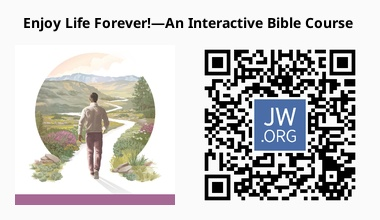
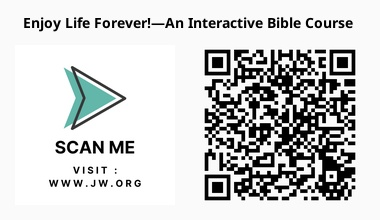
Removed copyright images

Changed region(s): [[0.0579, 0.2182, 0.4342, 0.8455], [0.6658, 0.4364, 0.8105, 0.7091], [0.0289, 0.8727, 0.4632, 0.9545]]

diff --git a/index.py b/index.py
@@ -132,7 +132,7 @@ def qr_processor(
     return eval(f"gen_qr_{article_design}")(article_link, article_title)
 
 
-def gen_qr(article_link="", article_title="", with_logo=True, design=None):
+def gen_qr(article_link="", article_title="", design=None):
     if not article_link:
         return
 
@@ -150,9 +150,20 @@ def gen_qr(article_link="", article_title="", with_logo=True, design=None):
             404,
             description=f"Opps!! Something is wrong somewhere. Please try another link.",
         )
-    left_image = get_article_image(image_url=links.get("image", ""))
+    
+    logoName = "assets/images/logo-1.png"
+    if design == 1:
+        logoName = "assets/images/logo-2.png"
+    elif design == 2:
+        logoName = "assets/images/logo-3.png"
+
+    logo = Image.open(logoName)
+    left_image = logo.resize(ARTICLE_IMAGE_SIZE, Image.ANTIALIAS)
+    left_image = add_margin(
+        left_image, top=0, bottom=15, left=15, right=15, color=(250, 250, 250)
+    )
     right_image = get_qr_image(
-        article_link=article_link, with_logo=with_logo, design=design
+        article_link=article_link, with_logo=False
     )
     article_size = left_image.size
     complete_qr_image = Image.new(
@@ -180,133 +191,138 @@ def gen_qr(article_link="", article_title="", with_logo=True, design=None):
 def gen_qr_1(article_link="", article_title=""):
     return gen_qr(article_link=article_link, article_title=article_title)
 
+def gen_qr_2(article_link="", article_title=""):
+    return gen_qr(
+        article_link=article_link,
+        article_title=article_title,
+        design=1,
+    )
 
 def gen_qr_3(article_link="", article_title=""):
     return gen_qr(
         article_link=article_link,
         article_title=article_title,
-        with_logo=False,
-        design=1,
+        design=2,
     )
 
 
-def gen_qr_2(article_link="", article_title=""):
-    if not article_link:
-        return
+# def gen_qr_2(article_link="", article_title=""):
+#     if not article_link:
+#         return
 
-    result = urlparse(article_link)
-    domain_link = result.netloc.casefold()
-    if domain_link != EXPECTED_DOMAIN:
-        logger.warn("Invalid domain.")
-        abort(404, "Please enter a link from {EXPECTED_DOMAIN}.")
-    links = {}
-    try:
-        links = scrape_article(article_link=article_link)
-    except Exception as er:
-        logger.error("Error during scraping.", exc_info=True)
-        abort(
-            404,
-            description=f"Opps!! Something is wrong somewhere. Please try another link.",
-        )
-    left_image = get_article_image(
-        image_url=links.get("image", ""), article_url=article_link
-    )
-    logo = Image.open("assets/images/siteLogo-jworg.png")
-    right_image = logo.resize(ARTICLE_IMAGE_SIZE, Image.ANTIALIAS)
-    article_size = left_image.size
-    complete_qr_image = Image.new(
-        "RGB", (2 * article_size[0], article_size[1] + IMAGE_OFFSET), (250, 250, 250)
-    )
-    complete_qr_image.paste(left_image, (0, IMAGE_OFFSET))
-    complete_qr_image.paste(right_image, (article_size[0] + 10, IMAGE_OFFSET))
+#     result = urlparse(article_link)
+#     domain_link = result.netloc.casefold()
+#     if domain_link != EXPECTED_DOMAIN:
+#         logger.warn("Invalid domain.")
+#         abort(404, "Please enter a link from {EXPECTED_DOMAIN}.")
+#     links = {}
+#     try:
+#         links = scrape_article(article_link=article_link)
+#     except Exception as er:
+#         logger.error("Error during scraping.", exc_info=True)
+#         abort(
+#             404,
+#             description=f"Opps!! Something is wrong somewhere. Please try another link.",
+#         )
+#     left_image = get_article_image(
+#         image_url=links.get("image", ""), article_url=article_link
+#     )
+#     logo = Image.open("assets/images/siteLogo-jworg.png")
+#     right_image = logo.resize(ARTICLE_IMAGE_SIZE, Image.ANTIALIAS)
+#     article_size = left_image.size
+#     complete_qr_image = Image.new(
+#         "RGB", (2 * article_size[0], article_size[1] + IMAGE_OFFSET), (250, 250, 250)
+#     )
+#     complete_qr_image.paste(left_image, (0, IMAGE_OFFSET))
+#     complete_qr_image.paste(right_image, (article_size[0] + 10, IMAGE_OFFSET))
 
-    qr_title = article_title if article_title else links.get("title", "")
+#     qr_title = article_title if article_title else links.get("title", "")
 
-    draw_title(
-        image=complete_qr_image,
-        width=article_size[0],
-        title=qr_title,
-        lang=links.get("lang", "en"),
-    )
-    complete_qr_image = draw_border(image=complete_qr_image)
-    qr_file = io.BytesIO()
-    complete_qr_image.save(qr_file, "JPEG", quality=95)
-    qr_file.seek(0)
-    return qr_file
+#     draw_title(
+#         image=complete_qr_image,
+#         width=article_size[0],
+#         title=qr_title,
+#         lang=links.get("lang", "en"),
+#     )
+#     complete_qr_image = draw_border(image=complete_qr_image)
+#     qr_file = io.BytesIO()
+#     complete_qr_image.save(qr_file, "JPEG", quality=95)
+#     qr_file.seek(0)
+#     return qr_file
 
 
-def gen_qr_4(article_link="", article_title=""):
-    if not article_link:
-        return
+# def gen_qr_4(article_link="", article_title=""):
+#     if not article_link:
+#         return
 
-    result = urlparse(article_link)
-    domain_link = result.netloc.casefold()
-    if domain_link != EXPECTED_DOMAIN:
-        logger.warn("Invalid domain.")
-        abort(404, "Please enter a link from {EXPECTED_DOMAIN}.")
-    links = {}
-    try:
-        links = scrape_article(article_link=article_link)
-    except Exception as er:
-        logger.error("Error during scraping.", exc_info=True)
-        abort(
-            404,
-            description=f"Opps!! Something is wrong somewhere. Please try another link.",
-        )
-    response = get_link_data(link=links.get("banner", ""))
-    bg_file = io.BytesIO(response.content)
+#     result = urlparse(article_link)
+#     domain_link = result.netloc.casefold()
+#     if domain_link != EXPECTED_DOMAIN:
+#         logger.warn("Invalid domain.")
+#         abort(404, "Please enter a link from {EXPECTED_DOMAIN}.")
+#     links = {}
+#     try:
+#         links = scrape_article(article_link=article_link)
+#     except Exception as er:
+#         logger.error("Error during scraping.", exc_info=True)
+#         abort(
+#             404,
+#             description=f"Opps!! Something is wrong somewhere. Please try another link.",
+#         )
+#     response = get_link_data(link=links.get("banner", ""))
+#     bg_file = io.BytesIO(response.content)
 
-    banner_image = Image.open(bg_file)
-    banner_image = banner_image.resize(
-        ((ARTICLE_IMAGE_SIZE[0] * 2) - IMAGE_OFFSET, ARTICLE_IMAGE_SIZE[1]),
-        Image.ANTIALIAS,
-    )
-    cropped_banner_image = banner_image.crop(
-        (
-            banner_image.size[0] - ARTICLE_IMG_QR_SIZE[0],
-            banner_image.size[1] - ARTICLE_IMG_QR_SIZE[1],
-            banner_image.size[0],
-            banner_image.size[1],
-        )
-    )
-    cropped_image = io.BytesIO()
-    cropped_banner_image.save(cropped_image, format="PNG")
-    cropped_qr_image = segno.make(
-        prepare_link(article_link=article_link, force_shorten=True), error="h"
-    )
-    cropped_qr_file = io.BytesIO()
-    cropped_qr_image.to_artistic(
-        background=cropped_image, target=cropped_qr_file, kind="jpeg", border=0
-    )
-    new_image_file = Image.open(cropped_qr_file)
-    new_image_file = new_image_file.resize(ARTICLE_IMG_QR_SIZE, Image.ANTIALIAS)
-    image_position = (
-        banner_image.size[0] - new_image_file.size[0],
-        banner_image.size[1] - new_image_file.size[1],
-    )
-    banner_image.paste(new_image_file, image_position)
-    left_image = prepare_logo(basewidth=50, border=False)
-    image_position = (0, banner_image.size[1] - left_image.size[1])
-    banner_image.paste(left_image, image_position)
+#     banner_image = Image.open(bg_file)
+#     banner_image = banner_image.resize(
+#         ((ARTICLE_IMAGE_SIZE[0] * 2) - IMAGE_OFFSET, ARTICLE_IMAGE_SIZE[1]),
+#         Image.ANTIALIAS,
+#     )
+#     cropped_banner_image = banner_image.crop(
+#         (
+#             banner_image.size[0] - ARTICLE_IMG_QR_SIZE[0],
+#             banner_image.size[1] - ARTICLE_IMG_QR_SIZE[1],
+#             banner_image.size[0],
+#             banner_image.size[1],
+#         )
+#     )
+#     cropped_image = io.BytesIO()
+#     cropped_banner_image.save(cropped_image, format="PNG")
+#     cropped_qr_image = segno.make(
+#         prepare_link(article_link=article_link, force_shorten=True), error="h"
+#     )
+#     cropped_qr_file = io.BytesIO()
+#     cropped_qr_image.to_artistic(
+#         background=cropped_image, target=cropped_qr_file, kind="jpeg", border=0
+#     )
+#     new_image_file = Image.open(cropped_qr_file)
+#     new_image_file = new_image_file.resize(ARTICLE_IMG_QR_SIZE, Image.ANTIALIAS)
+#     image_position = (
+#         banner_image.size[0] - new_image_file.size[0],
+#         banner_image.size[1] - new_image_file.size[1],
+#     )
+#     banner_image.paste(new_image_file, image_position)
+#     left_image = prepare_logo(basewidth=50, border=False)
+#     image_position = (0, banner_image.size[1] - left_image.size[1])
+#     banner_image.paste(left_image, image_position)
 
-    qr_title = article_title if article_title else links.get("title", "")
-    draw_title(
-        image=banner_image,
-        width=ARTICLE_IMAGE_SIZE[0] - 25,
-        title=qr_title,
-        lang=links.get("lang", "en"),
-        with_outline=True,
-        title_pos=(0, 3),
-    )
-    banner_image = add_margin(
-        banner_image, top=5, bottom=5, left=5, right=5, color=(250, 250, 250)
-    )
-    banner_image = draw_border(image=banner_image)
-    qr_file = io.BytesIO()
-    # banner_image.save("test.jpg", "JPEG", quality=95)
-    banner_image.save(qr_file, "JPEG", quality=95)
-    qr_file.seek(0)
-    return qr_file
+#     qr_title = article_title if article_title else links.get("title", "")
+#     draw_title(
+#         image=banner_image,
+#         width=ARTICLE_IMAGE_SIZE[0] - 25,
+#         title=qr_title,
+#         lang=links.get("lang", "en"),
+#         with_outline=True,
+#         title_pos=(0, 3),
+#     )
+#     banner_image = add_margin(
+#         banner_image, top=5, bottom=5, left=5, right=5, color=(250, 250, 250)
+#     )
+#     banner_image = draw_border(image=banner_image)
+#     qr_file = io.BytesIO()
+#     # banner_image.save("test.jpg", "JPEG", quality=95)
+#     banner_image.save(qr_file, "JPEG", quality=95)
+#     qr_file.seek(0)
+#     return qr_file
 
 
 def get_proxy():
